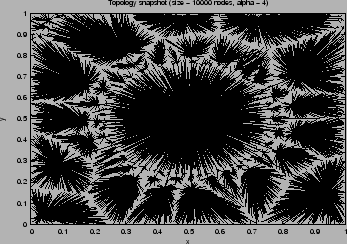
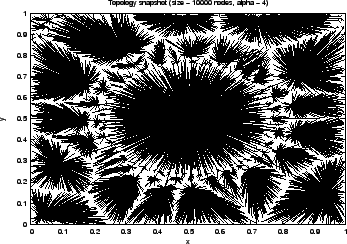
*** empty log message ***

diff --git a/web/tutorial2/index.html b/web/tutorial2/index.html
@@ -797,7 +797,7 @@ Topology and in-degree distribution with <IMG
  SRC="img17.png"
  ALT="\includegraphics[width=8cm]{pic_alfa4}">
 <IMG
- WIDTH="348" HEIGHT="246" ALIGN="BOTTOM" BORDER="0"
+ WIDTH="355" HEIGHT="246" ALIGN="BOTTOM" BORDER="0"
  SRC="img18.png"
  ALT="\includegraphics[width=8cm]{picdegree_alfa4}"></TD></TR>
 </TABLE>
@@ -817,7 +817,7 @@ Topology and in-degree distribution with <IMG
  SRC="img19.png"
  ALT="\includegraphics[width=8cm]{pic_alfa20}">
 <IMG
- WIDTH="348" HEIGHT="246" ALIGN="BOTTOM" BORDER="0"
+ WIDTH="355" HEIGHT="246" ALIGN="BOTTOM" BORDER="0"
  SRC="img20.png"
  ALT="\includegraphics[width=8cm]{picdegree_alfa20}"></TD></TR>
 </TABLE>
@@ -838,7 +838,7 @@ with <IMG
  SRC="img21.png"
  ALT="\includegraphics[width=8cm]{pic_alfa100}">
 <IMG
- WIDTH="348" HEIGHT="246" ALIGN="BOTTOM" BORDER="0"
+ WIDTH="355" HEIGHT="246" ALIGN="BOTTOM" BORDER="0"
  SRC="img22.png"
  ALT="\includegraphics[width=8cm]{picdegree_alfa100}"></TD></TR>
 </TABLE>
@@ -941,7 +941,7 @@ Mathematics Department, Macquarie University, Sydney.
 The command line arguments were: <BR>
  <STRONG>latex2html</STRONG> <TT>-t 'Peersim HOWTO 2' -split 0 -nonavigation -noaddress -show_section_numbers -t 'Peersim HOWTO 2' tutorial2.tex</TT>
 <P>
-The translation was initiated by Mark Jelasity on 2005-12-14
+The translation was initiated by Mark Jelasity on 2006-04-28
 <BR><HR>
 
 </BODY>

diff --git a/web/tutorial2/tutorial2.html b/web/tutorial2/tutorial2.html
@@ -797,7 +797,7 @@ Topology and in-degree distribution with <IMG
  SRC="img17.png"
  ALT="\includegraphics[width=8cm]{pic_alfa4}">
 <IMG
- WIDTH="348" HEIGHT="246" ALIGN="BOTTOM" BORDER="0"
+ WIDTH="355" HEIGHT="246" ALIGN="BOTTOM" BORDER="0"
  SRC="img18.png"
  ALT="\includegraphics[width=8cm]{picdegree_alfa4}"></TD></TR>
 </TABLE>
@@ -817,7 +817,7 @@ Topology and in-degree distribution with <IMG
  SRC="img19.png"
  ALT="\includegraphics[width=8cm]{pic_alfa20}">
 <IMG
- WIDTH="348" HEIGHT="246" ALIGN="BOTTOM" BORDER="0"
+ WIDTH="355" HEIGHT="246" ALIGN="BOTTOM" BORDER="0"
  SRC="img20.png"
  ALT="\includegraphics[width=8cm]{picdegree_alfa20}"></TD></TR>
 </TABLE>
@@ -838,7 +838,7 @@ with <IMG
  SRC="img21.png"
  ALT="\includegraphics[width=8cm]{pic_alfa100}">
 <IMG
- WIDTH="348" HEIGHT="246" ALIGN="BOTTOM" BORDER="0"
+ WIDTH="355" HEIGHT="246" ALIGN="BOTTOM" BORDER="0"
  SRC="img22.png"
  ALT="\includegraphics[width=8cm]{picdegree_alfa100}"></TD></TR>
 </TABLE>
@@ -941,7 +941,7 @@ Mathematics Department, Macquarie University, Sydney.
 The command line arguments were: <BR>
  <STRONG>latex2html</STRONG> <TT>-t 'Peersim HOWTO 2' -split 0 -nonavigation -noaddress -show_section_numbers -t 'Peersim HOWTO 2' tutorial2.tex</TT>
 <P>
-The translation was initiated by Mark Jelasity on 2005-12-14
+The translation was initiated by Mark Jelasity on 2006-04-28
 <BR><HR>
 
 </BODY>
